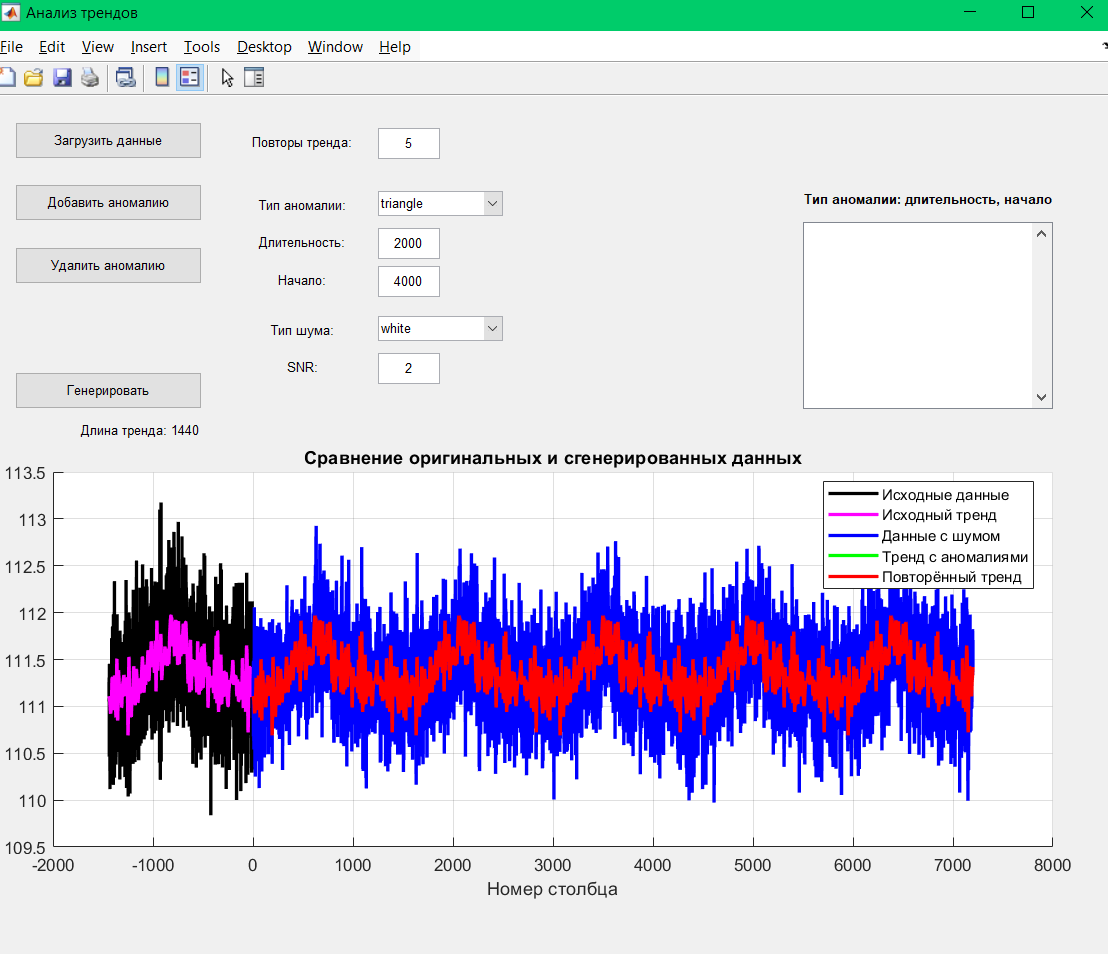
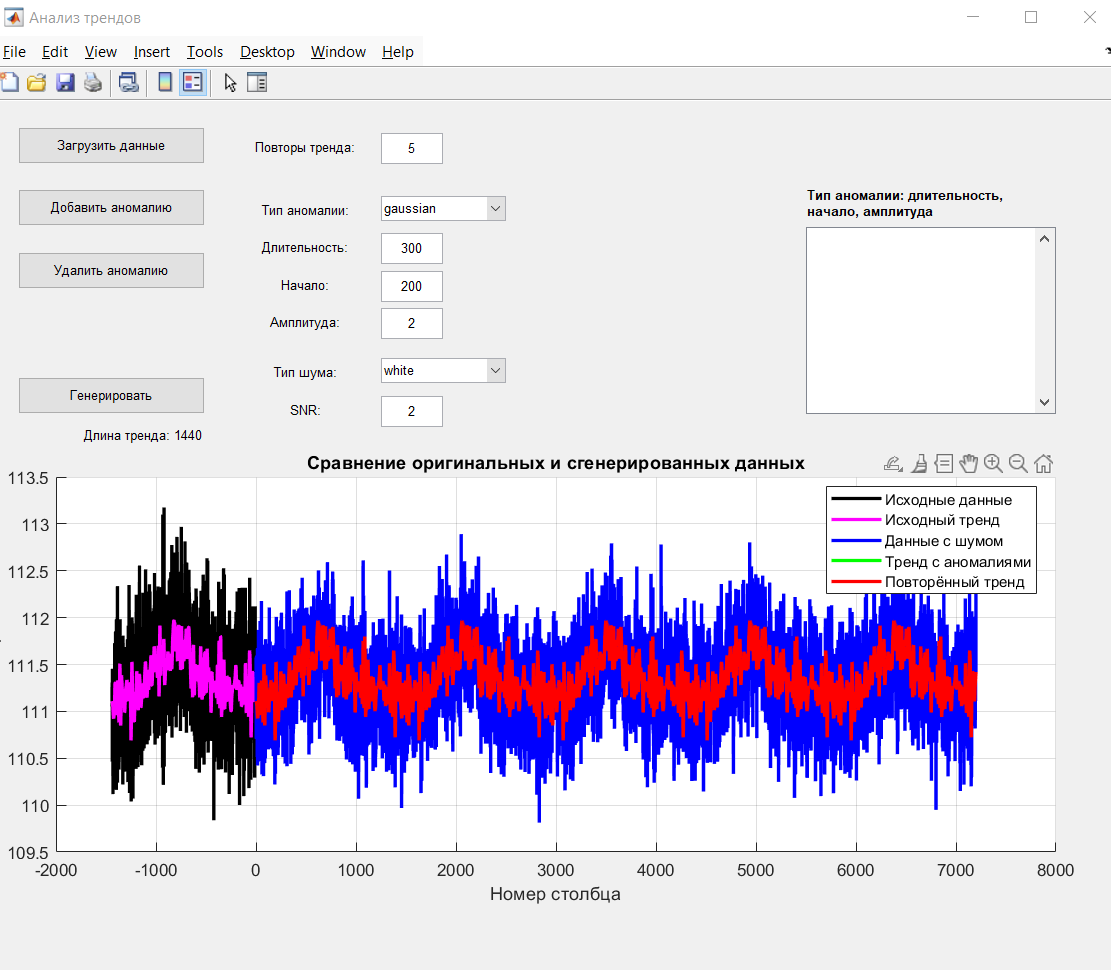
added amplitude for anomaly

diff --git a/code/setup_workspace.m b/code/setup_workspace.m
@@ -24,18 +24,21 @@ function trend_analysis_gui
 
     uicontrol('Style', 'text', 'String', 'Начало:', 'Position', [200 540 100 20]);
     anomaly_start_edit = uicontrol('Style', 'edit', 'Position', [310 540 50 25], 'String', '200');
+    
+    uicontrol('Style', 'text', 'String', 'Амплитуда:', 'Position', [200 510 100 20]);
+    anomaly_amplitude_edit = uicontrol('Style', 'edit', 'Position', [310 510 50 25], 'String', '2');
 
     % Поле выбора типа шума
-    uicontrol('Style', 'text', 'String', 'Тип шума:', 'Position', [200 500 100 20]);
-    noise_type_menu = uicontrol('Style', 'popupmenu', 'Position', [310 500 100 25], ...
+    uicontrol('Style', 'text', 'String', 'Тип шума:', 'Position', [200 470 100 20]);
+    noise_type_menu = uicontrol('Style', 'popupmenu', 'Position', [310 470 100 25], ...
                                 'String', {'white', 'pink'});
 
     % Поле для ввода SNR
-    uicontrol('Style', 'text', 'String', 'SNR:', 'Position', [200 470 100 20]);
-    snr_edit = uicontrol('Style', 'edit', 'Position', [310 470 50 25], 'String', '2');
+    uicontrol('Style', 'text', 'String', 'SNR:', 'Position', [200 440 100 20]);
+    snr_edit = uicontrol('Style', 'edit', 'Position', [310 440 50 25], 'String', '2');
     
-    uicontrol('Style', 'text', 'String', 'Тип аномалии: длительность, начало', ...
-          'Position', [650 605 200 20], 'FontWeight', 'bold', 'HorizontalAlignment', 'left');
+    uicontrol('Style', 'text', 'String', 'Тип аномалии: длительность, начало, амплитуда', ...
+          'Position', [650 605 200 27], 'FontWeight', 'bold', 'HorizontalAlignment', 'left');
 
     % Поле для отображения длины тренда
     trend_length_text = uicontrol('Style', 'text', 'String', 'Длина тренда: -', 'Position', [20 420 200 20]);
@@ -79,16 +82,16 @@ function trend_analysis_gui
         type_list = get(anomaly_type_menu, 'String');
         anomaly_type = type_list{type_idx};
         duration = str2double(get(anomaly_duration_edit, 'String'));
+        amplitude = str2double(get(anomaly_amplitude_edit, 'String'));
         start = str2double(get(anomaly_start_edit, 'String'));
-        anomalies{end + 1} = {anomaly_type, duration, start};
+        anomalies{end + 1} = {anomaly_type, duration, start, amplitude};
         update_anomaly_list();
     end
 
     function update_anomaly_list()
-        anomaly_strings = cellfun(@(a) sprintf('%s: %d, %d', a{1}, a{2}, a{3}), anomalies, 'UniformOutput', false);
+        anomaly_strings = cellfun(@(a) sprintf('%s: %d, %d, %d', a{1}, a{2}, a{3}, a{4}), anomalies, 'UniformOutput', false);
         set(anomaly_list, 'String', anomaly_strings);
     end
-
     function remove_anomaly(~, ~)
         selected_index = get(anomaly_list, 'Value');
         if selected_index > 0 && selected_index <= length(anomalies)
@@ -118,11 +121,11 @@ function trend_analysis_gui
 
         for i = 1:length(anomalies)
             anomaly = anomalies{i};
-            if anomaly{3} - anomaly{2}/2 < 1 || anomaly{3} + anomaly{2}/2 > length(repeated_trend)
+            if anomaly{3} + anomaly{2} > length(repeated_trend)
                 msgbox('Ошибка: Аномалия выходит за пределы тренда!', 'Ошибка', 'error');
                 return;
             end
-            spoiled_trend = add_impulse(spoiled_trend, anomaly{1}, anomaly{3}, anomaly{2}, 2);
+            spoiled_trend = add_impulse(spoiled_trend, anomaly{1}, anomaly{3}, anomaly{2}, anomaly{4});
         end
 
         rms_signal = sum((mean(median_values(:)) - median_values(:)).^2) / length(median_values);

diff --git a/README.md b/README.md
@@ -55,7 +55,7 @@ $$ SNR = \frac{A^2_{данные}}{A^2_{шум}} $$
 
 Рекомендуется ставить этот параметр от 1 до 2. Если в SNR ближе к 1, то данные более хаотичные, если к 2 - данные более приближены к тренду. Если поставить 0 или пустое значение, то будет сгенерирован только тренд.
 
-Есть возможность добавить аномалии. Доступные типы аномалий на данный момент - имитированная Гауссовским распределением и треугольная. В окошке начало задается, где мы добавляем шум, начиная от начала данных, в окошке длительность задаётся размер данной аномалии. Аномалии отображаются в списке и есть возможность добавлять их и удалять соответствующими кнопками. При добавлении аномалии, которая выходит за длину тренда, будет выдана ошибка.
+Есть возможность добавить аномалии. Доступные типы аномалий на данный момент - имитированная Гауссовским распределением и треугольная. В окошке начало задается, где мы добавляем шум, начиная от начала данных, в окошке длительность задаётся размер данной аномалии. Аномалии отображаются в списке и есть возможность добавлять их и удалять соответствующими кнопками. Можно задать амплитуду аномалии в окошке амплитуда. При добавлении аномалии, которая выходит за длину тренда, будет выдана ошибка. 
 
 <img src="images/Запуск приложения с аномалиями.png" alt="image" width="75%" height="auto">
 
